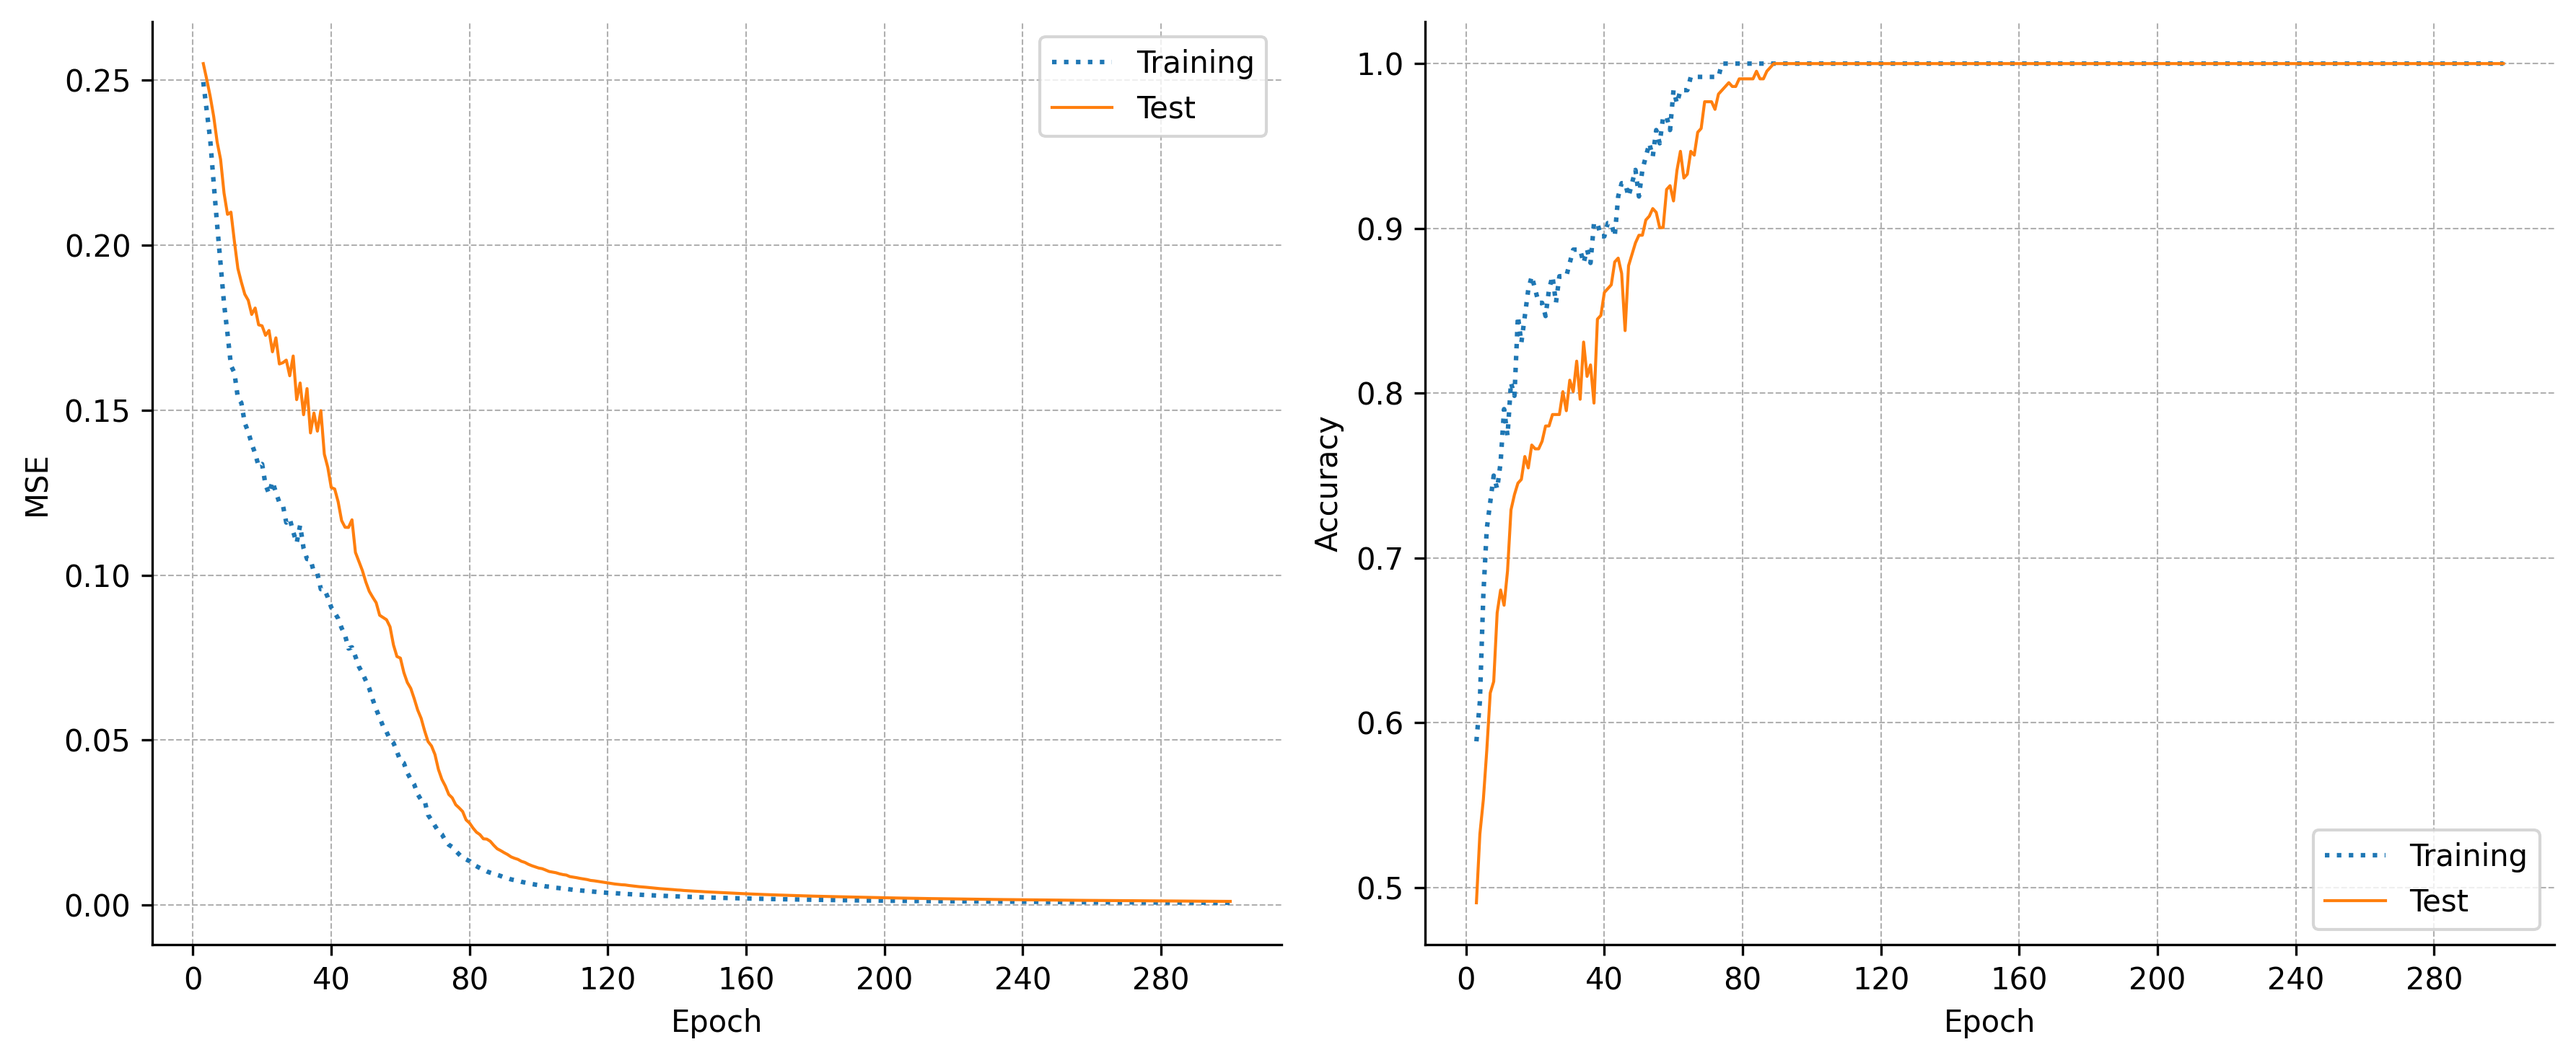
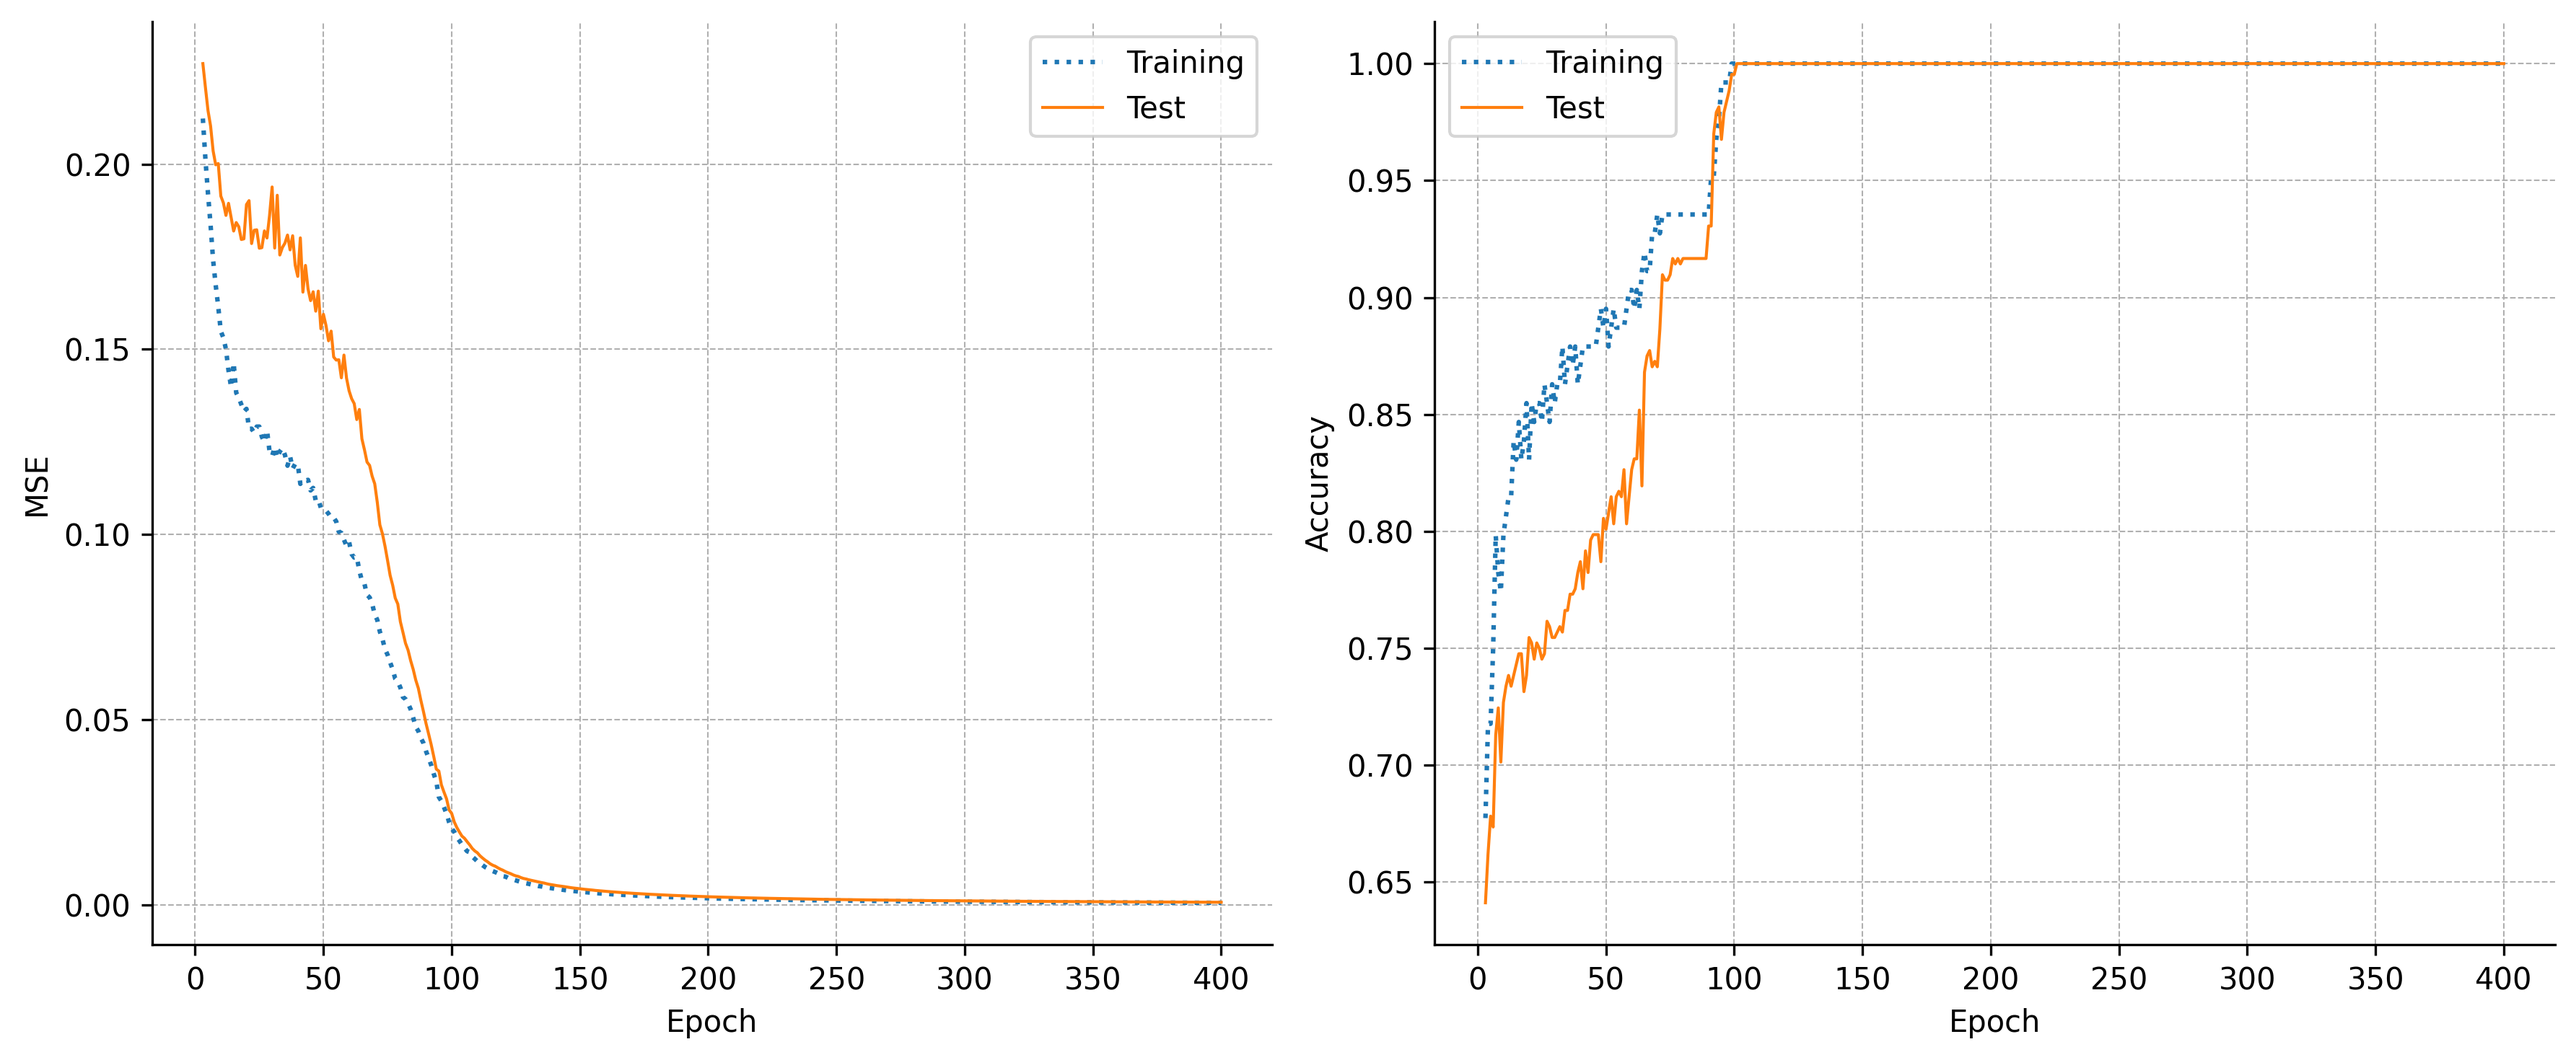
Fix MONK1/MONK2 plots and reports

diff --git a/code/training/solver.py b/code/training/solver.py
@@ -161,16 +161,14 @@ class Solver(object):
         
         
         # Retrieve <self.target> best result index
-        if self.x_val is None:
-            if self.target == 'loss':
-                best_metric_idx = np.argmin(self.train_loss_history)
-            else:
-                best_metric_idx = np.argmax(self.train_metric_history) if self.mode == 'max' else np.argmin(self.train_metric_history)
+        if self.target == 'loss':
+            best_metric_idx = np.argmin(self.train_loss_history)
+        elif self.target == 'val_loss':
+            best_metric_idx = np.argmin(self.val_loss_history)
+        elif 'val_' not in self.target:
+            best_metric_idx = np.argmax(self.train_metric_history) if self.mode == 'max' else np.argmin(self.train_metric_history)
         else:
-            if self.target == 'val_loss':
-                best_metric_idx = np.argmin(self.val_loss_history)
-            else:
-                best_metric_idx = np.argmax(self.val_metric_history) if self.mode == 'max' else np.argmin(self.val_metric_history)
+            best_metric_idx = np.argmax(self.val_metric_history) if self.mode == 'max' else np.argmin(self.val_metric_history)
 
               
         self.best_model_stats = {
